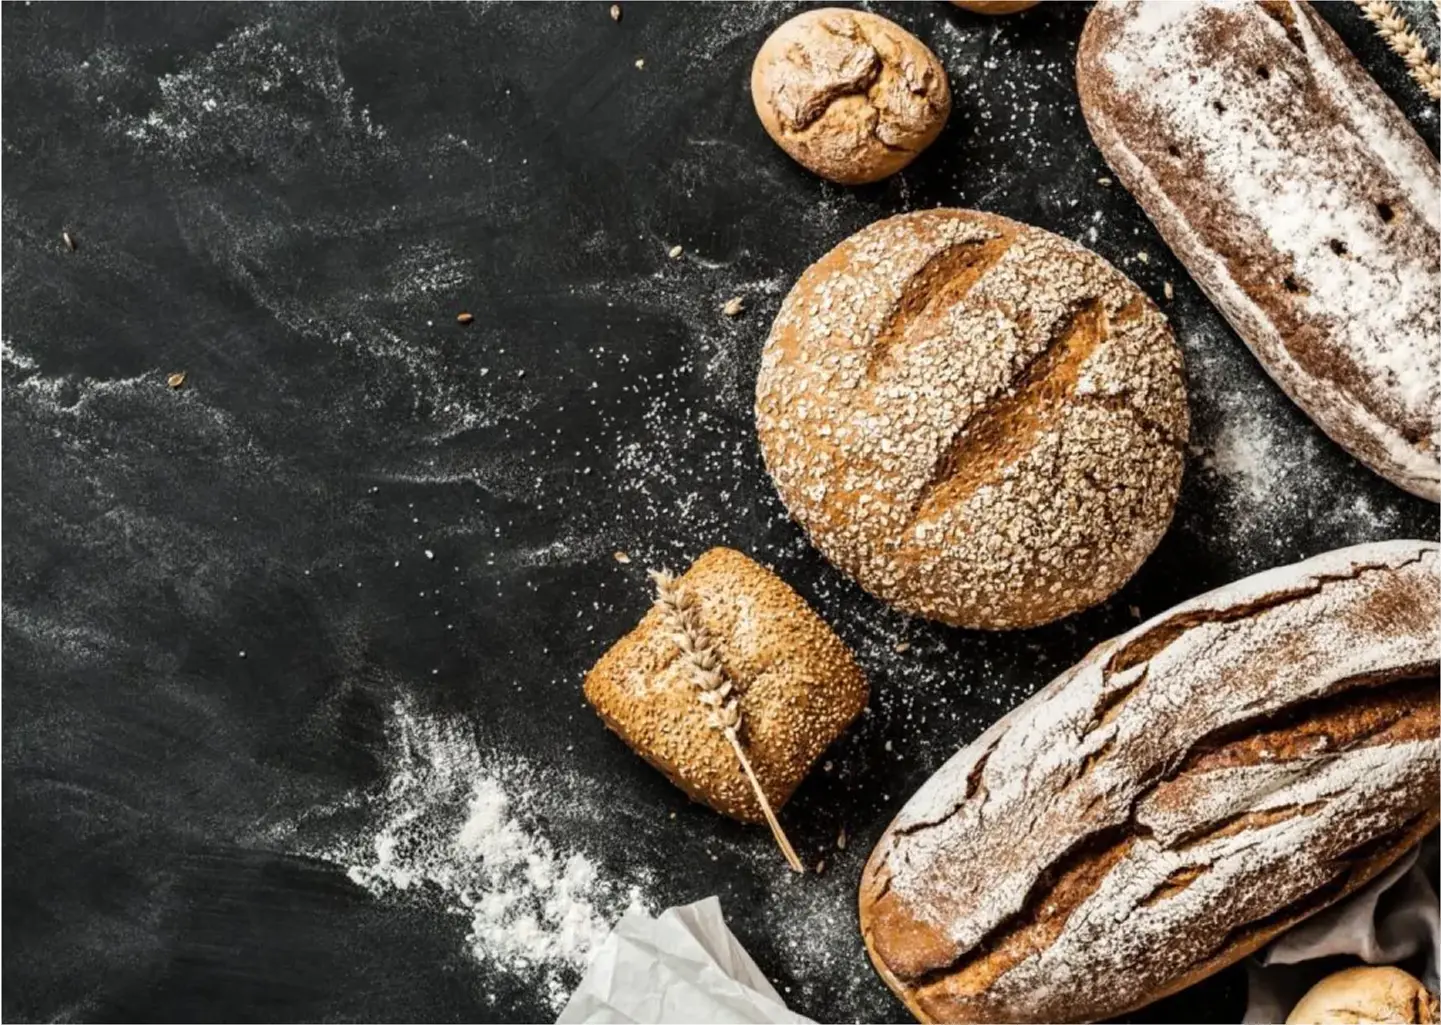
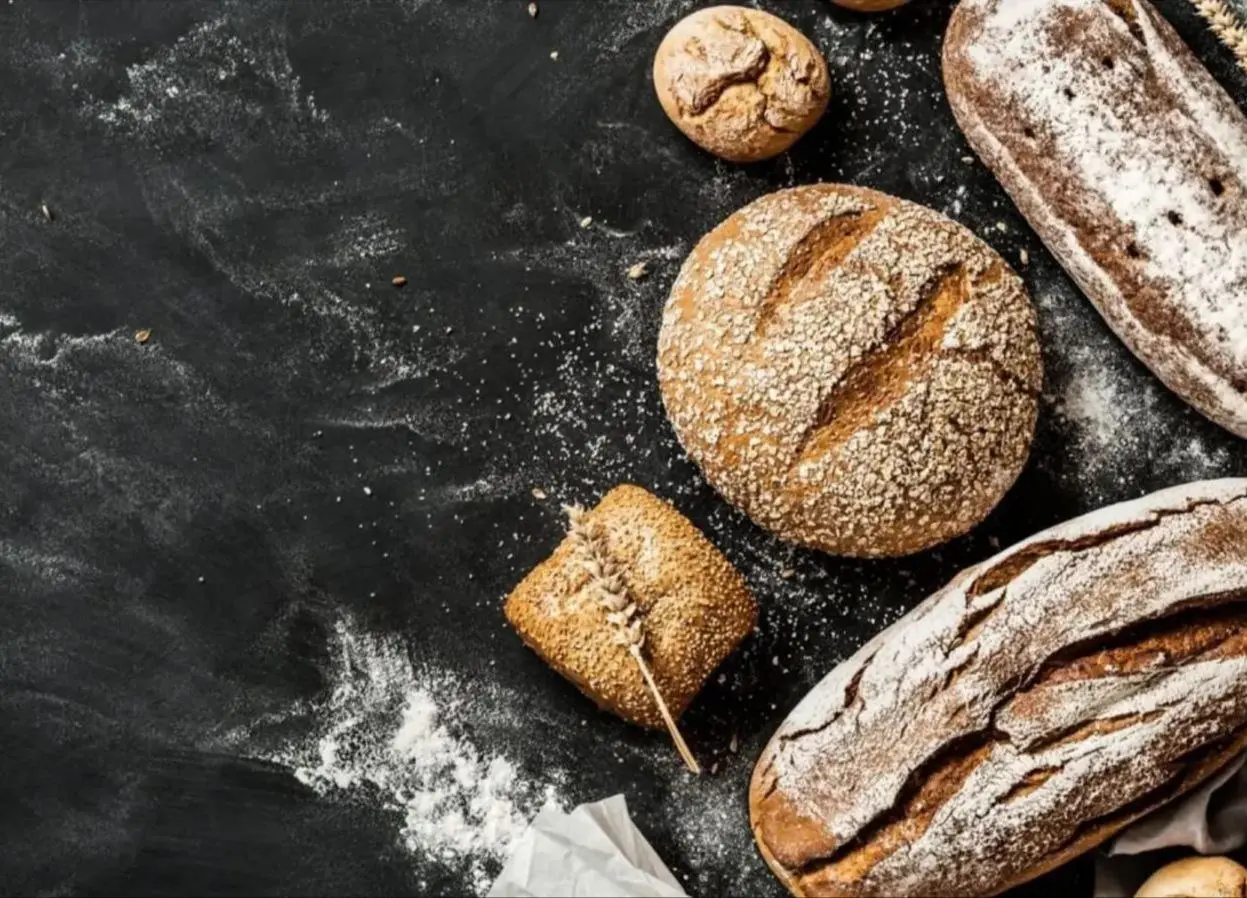
fix img

diff --git a/style.css b/style.css
@@ -1,8 +1,8 @@
 .body {
-  background-image: url(./src/images/background.webp);
+  background-image: url(./src/images/Background.webp);
   background-repeat: no-repeat;
   background-size: 100% auto;
-  max-width: 100vw;
+  width: 100vw;
   box-sizing: border-box;
   overflow-x: hidden;
 }
@@ -137,7 +137,7 @@
   margin-top: 20px;
 }
 .s2 {
-  max-width: 100vw;
+  width: 100%;
   box-sizing: border-box;
   height: 775px;
   background: #202023;
